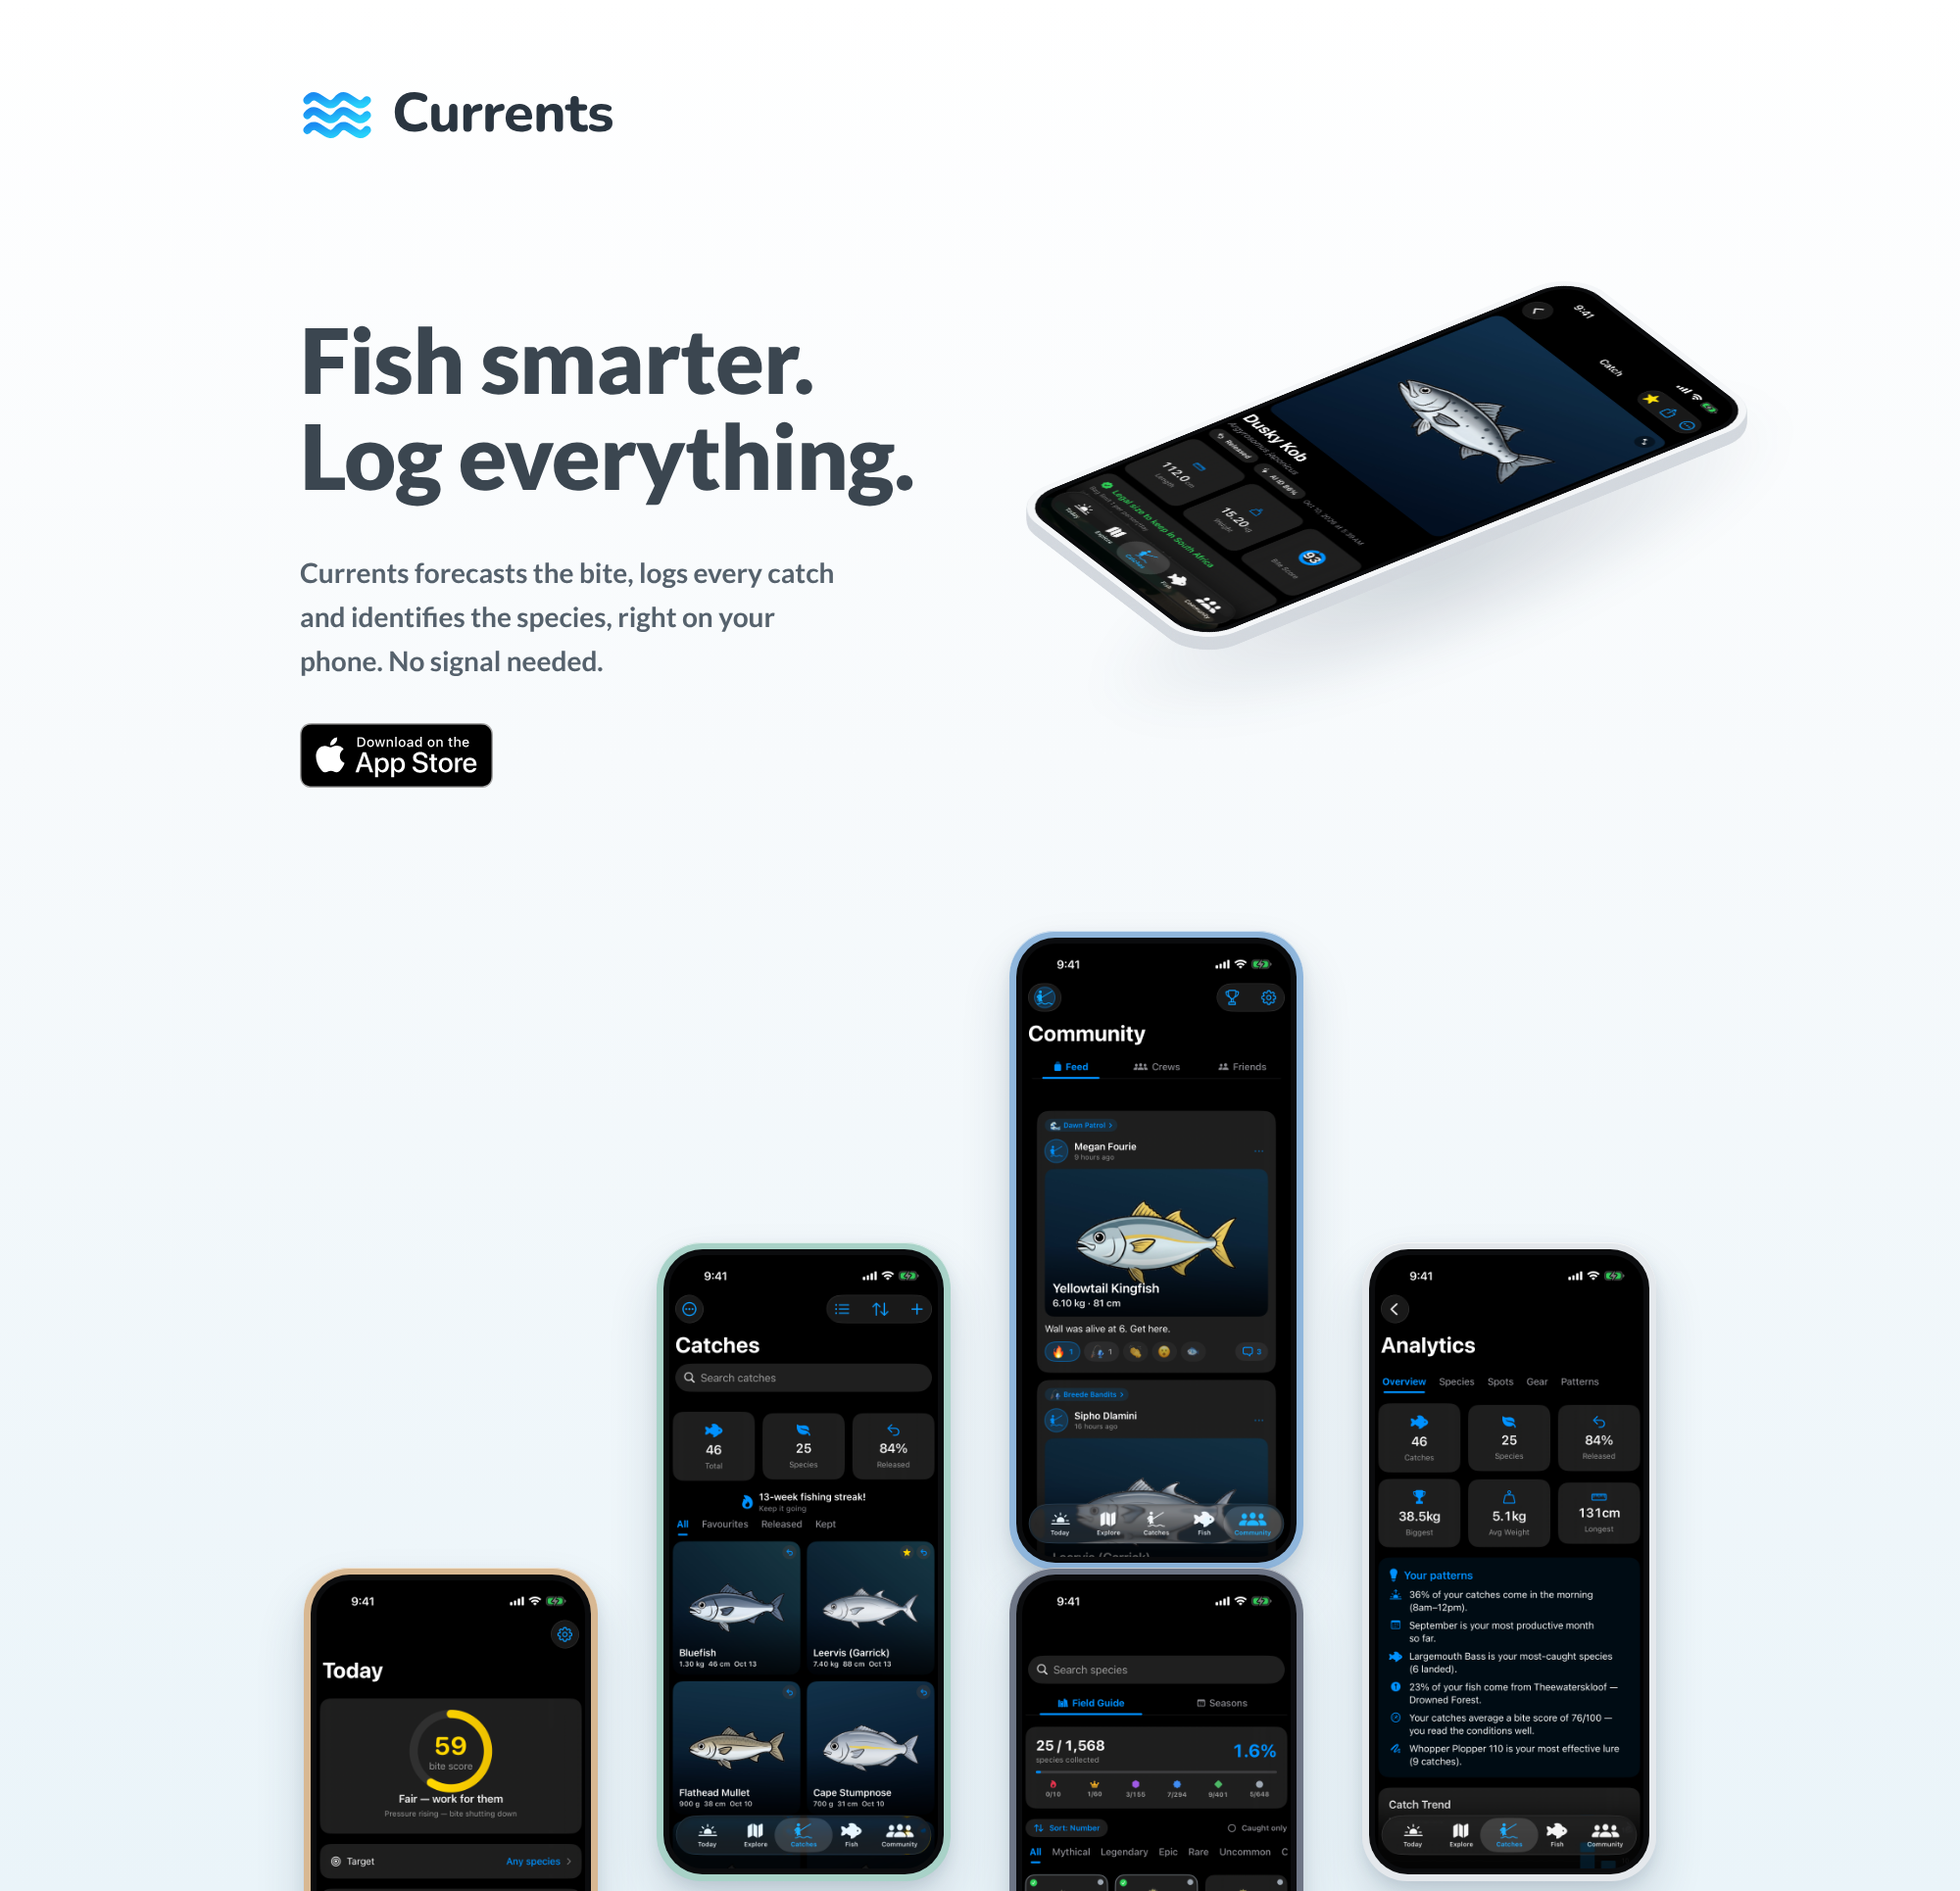
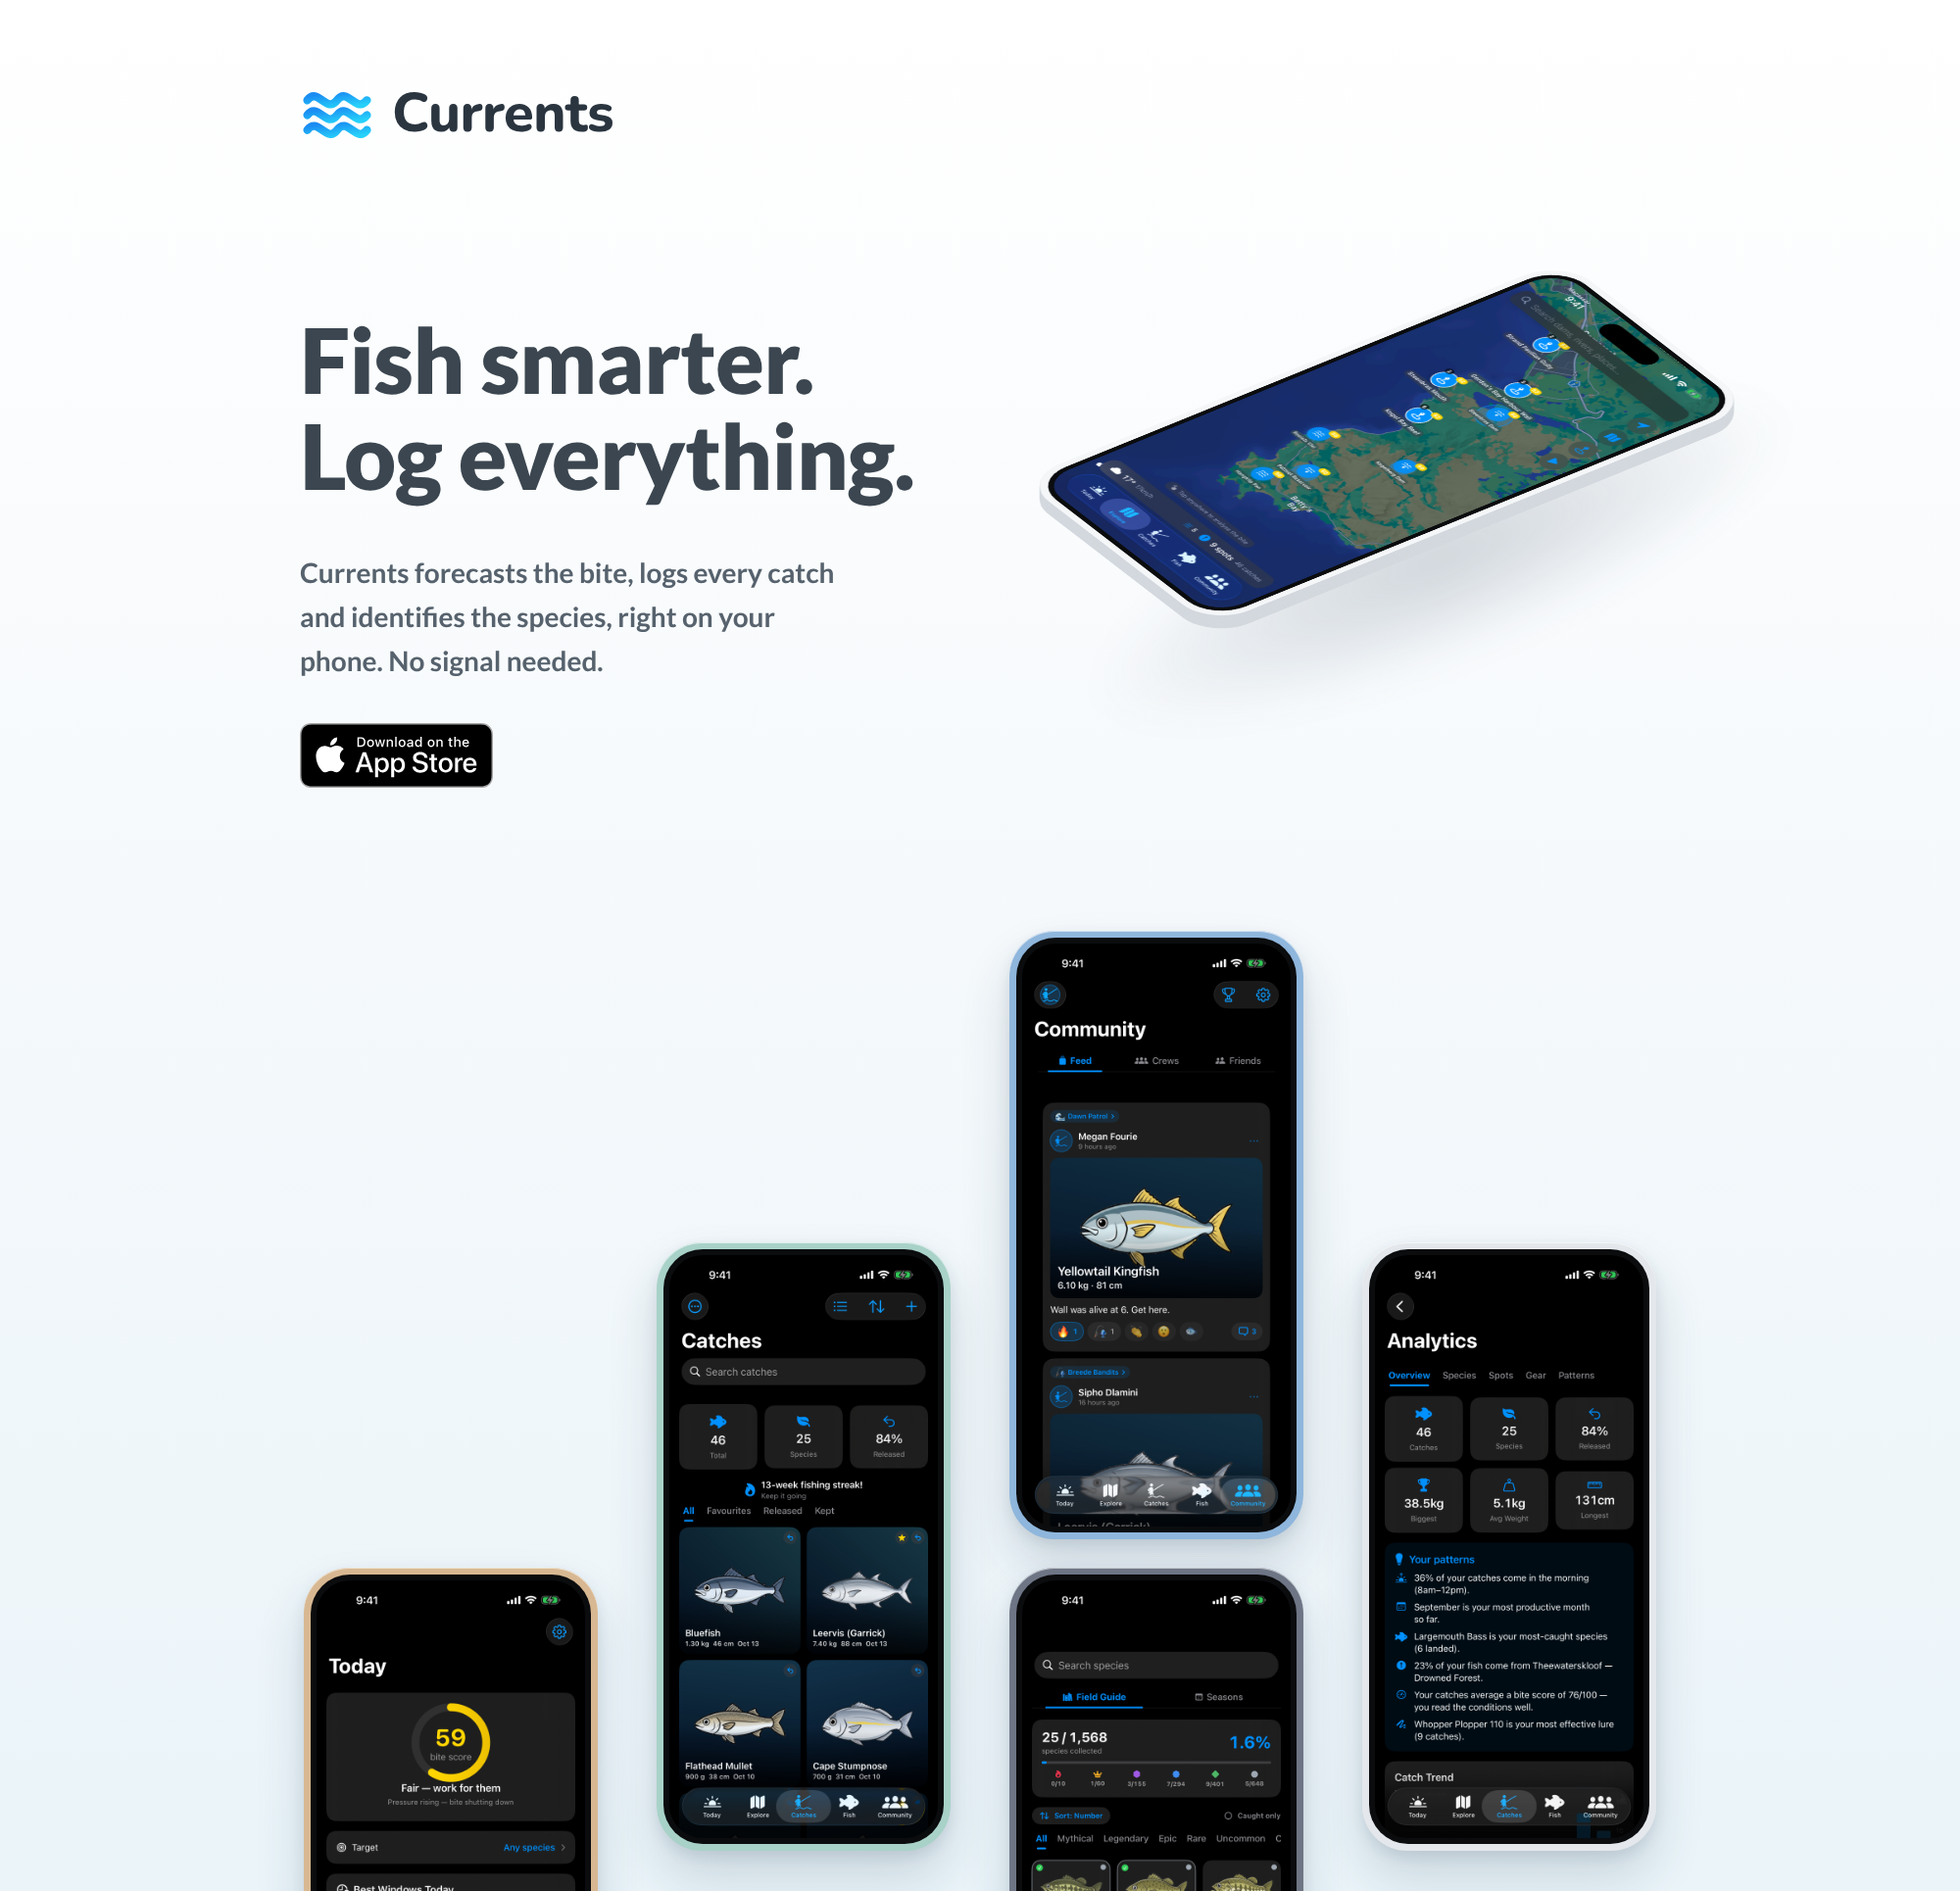
Poster: map on the hero phone, screenshots framed at their true ratio
Claude-Session: https://claude.ai/code/session_01CRYgJhPzh9cHqok2JqQZ4Y

diff --git a/design/marketing/poster.html b/design/marketing/poster.html
@@ -31,21 +31,21 @@
   .badge { position: absolute; left: 306px; top: 738px; height: 66px; }
 
   /* Upright phones: coloured metal band, black bezel, real screenshot. */
-  .phone { position: absolute; width: 300px; aspect-ratio: 1320 / 2868; padding: 7px;
+  .phone { position: absolute; width: 300px; padding: 7px;
     border-radius: 46px; background: var(--band);
     box-shadow: 0 1px 0 rgba(255,255,255,.6) inset, 0 28px 50px rgba(30,55,80,.16), 0 6px 14px rgba(30,55,80,.10); }
-  .phone .bezel { width: 100%; height: 100%; padding: 6px; border-radius: 40px; background: #0B0C0E; }
-  .phone img { display: block; width: 100%; height: 100%; object-fit: cover; border-radius: 34px; }
+  .phone .bezel { padding: 6px; border-radius: 40px; background: #0B0C0E; }
+  .phone img { display: block; width: 100%; height: auto; border-radius: 34px; }
 
   /* Hero phone lying on the page: an orthographic tilt with stacked layers
      for the device's edge, like the reference's isometric render. */
-  .iso { position: absolute; left: 1250px; top: 110px; width: 330px; aspect-ratio: 1320 / 2868;
+  .iso { position: absolute; left: 1250px; top: 110px; width: 330px; aspect-ratio: 330 / 684; /* 302px screen + 28px of band and bezel */
     transform: rotateX(56deg) rotateZ(54deg); transform-style: preserve-3d; }
   .iso .layer { position: absolute; inset: 0; border-radius: 50px; background: #D3D8DE; }
   .iso .face { position: absolute; inset: 0; padding: 8px; border-radius: 50px; background: #F4F6F8;
     transform: translateZ(0); }
   .iso .face .bezel { width: 100%; height: 100%; padding: 6px; border-radius: 43px; background: #0B0C0E; }
-  .iso .face img { display: block; width: 100%; height: 100%; object-fit: cover; border-radius: 37px; }
+  .iso .face img { display: block; width: 100%; aspect-ratio: 1320 / 2868; border-radius: 37px; }
   .iso-shadow { position: absolute; left: 1090px; top: 470px; width: 760px; height: 200px; border-radius: 50%;
     background: radial-gradient(closest-side, rgba(30,55,80,.20), transparent); filter: blur(18px);
     transform: rotate(-22deg); }
@@ -73,7 +73,7 @@
 
   <div class="iso-shadow"></div>
   <div class="iso" id="iso">
-    <div class="face"><div class="bezel"><img src="shots/06_catch.png" alt=""></div></div>
+    <div class="face"><div class="bezel"><img src="shots/02_map.png" alt=""></div></div>
   </div>
 
   <div class="phone" style="--band:#D8B892; left:310px;  top:1600px"><div class="bezel"><img src="shots/01_today.png" alt=""></div></div>
